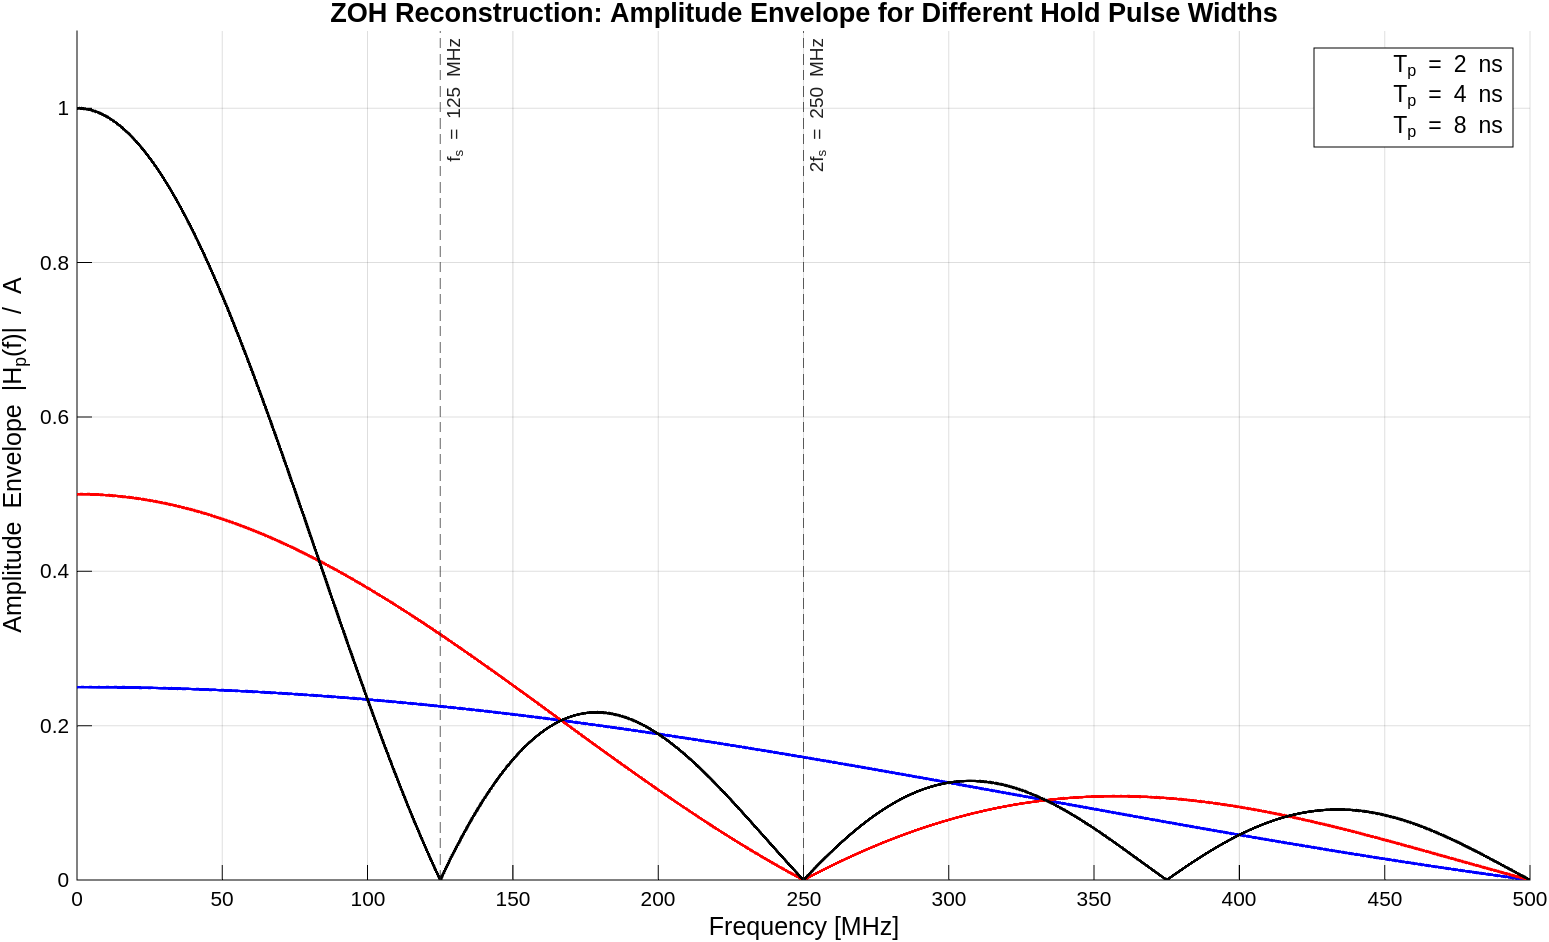
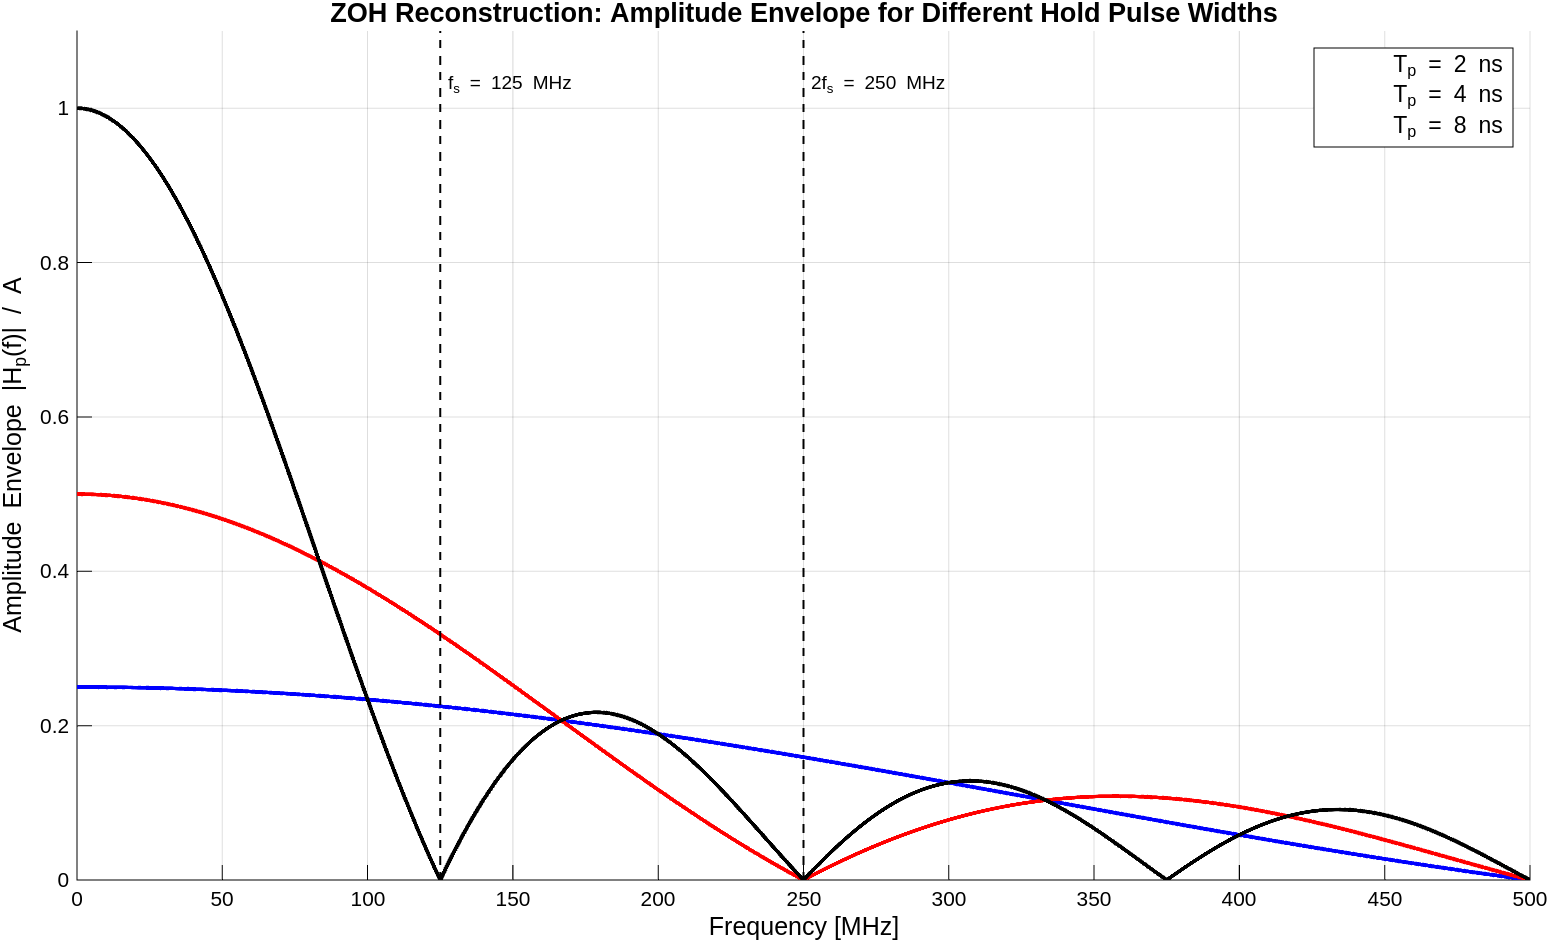
Enhance amplitude envelope plots with improved color definitions and legend formatting; add explicit markers for sampling frequencies.

diff --git a/hw2/hw2_p1.m b/hw2/hw2_p1.m
@@ -21,27 +21,32 @@ set(0, 'DefaultTextColor', 'k');
 
 fig1 = figure('Position', [100 100 900 500], 'Color', 'w');
 hold on; grid on;
-colors = {'b', 'r', 'k'};
+colors = {[0 0 1], [1 0 0], [0 0 0]}; % blue, red, black
 h = gobjects(1, length(Tp));
 
 for k = 1:length(Tp)
     % Amplitude envelope: (Tp/Ts) * |sinc(f * Tp)|
     % sinc in MATLAB is sinc(x) = sin(pi*x)/(pi*x)
     envelope = (Tp(k)/Ts) * abs(sinc(f * Tp(k)));
-    h(k) = plot(f/1e6, envelope, colors{k}, 'LineWidth', 1.5);
+    h(k) = plot(f/1e6, envelope, 'Color', colors{k}, 'LineWidth', 2);
 end
 
 xlabel('Frequency [MHz]', 'FontSize', 12);
 ylabel('Amplitude Envelope |H_p(f)| / A', 'FontSize', 12);
 title('ZOH Reconstruction: Amplitude Envelope for Different Hold Pulse Widths', 'FontSize', 13);
 lgd1 = legend(h, {'T_p = 2 ns', 'T_p = 4 ns', 'T_p = 8 ns'}, 'Location', 'northeast', 'FontSize', 11);
-set(lgd1, 'Color', 'w', 'EdgeColor', 'k', 'TextColor', 'k');
+set(lgd1, 'Box', 'on', 'Color', 'w', 'EdgeColor', 'k', 'TextColor', 'k');
+lgd1.ItemTokenSize = [30, 18];
+% Force legend line colors to match plot
+drawnow;
 xlim([0 500]);
 ylim([0 1.1]);
 
-% Mark fs and 2*fs
-xline(fs/1e6, '--', 'f_s = 125 MHz', 'FontSize', 9, 'LabelOrientation', 'aligned', 'HandleVisibility', 'off');
-xline(2*fs/1e6, '--', '2f_s = 250 MHz', 'FontSize', 9, 'LabelOrientation', 'aligned', 'HandleVisibility', 'off');
+% Mark fs and 2*fs with explicit black lines and labels
+plot([fs/1e6 fs/1e6], [0 1.1], 'k--', 'LineWidth', 1, 'HandleVisibility', 'off');
+plot([2*fs/1e6 2*fs/1e6], [0 1.1], 'k--', 'LineWidth', 1, 'HandleVisibility', 'off');
+text(fs/1e6 + 2, 1.03, 'f_s = 125 MHz', 'FontSize', 9, 'Color', 'k');
+text(2*fs/1e6 + 2, 1.03, '2f_s = 250 MHz', 'FontSize', 9, 'Color', 'k');
 
 exportgraphics(fig1, fullfile(savedir, 'p1a_amplitude_envelopes.png'), 'BackgroundColor', 'white', 'Resolution', 150);
 fprintf('Saved p1a_amplitude_envelopes.png\n');
@@ -111,8 +116,10 @@ set(lgd2, 'Color', 'w', 'EdgeColor', 'k', 'TextColor', 'k');
 xlim([0 260]);
 ylim([0 1.1]);
 
-xline(fs/1e6, 'k--', 'f_s', 'FontSize', 9, 'HandleVisibility', 'off');
-xline(2*fs/1e6, 'k--', '2f_s', 'FontSize', 9, 'HandleVisibility', 'off');
+plot([fs/1e6 fs/1e6], [0 1.1], 'k--', 'LineWidth', 1, 'HandleVisibility', 'off');
+plot([2*fs/1e6 2*fs/1e6], [0 1.1], 'k--', 'LineWidth', 1, 'HandleVisibility', 'off');
+text(fs/1e6 + 2, 1.03, 'f_s', 'FontSize', 9, 'Color', 'k');
+text(2*fs/1e6 + 2, 1.03, '2f_s', 'FontSize', 9, 'Color', 'k');
 
 exportgraphics(fig2, fullfile(savedir, 'p1b_output_tones.png'), 'BackgroundColor', 'white', 'Resolution', 150);
 fprintf('\nSaved p1b_output_tones.png\n');
